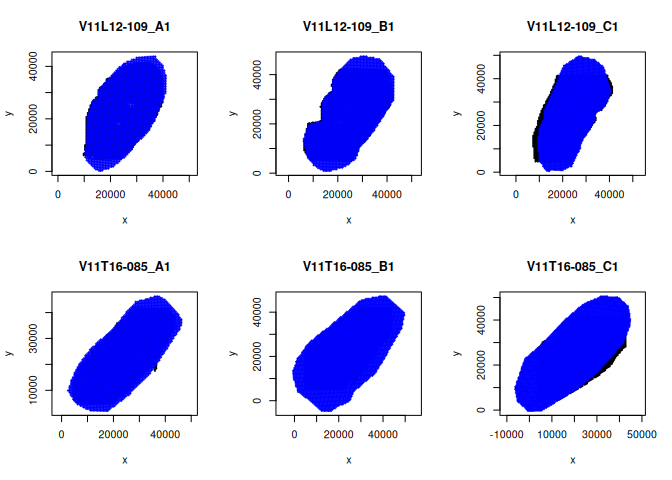
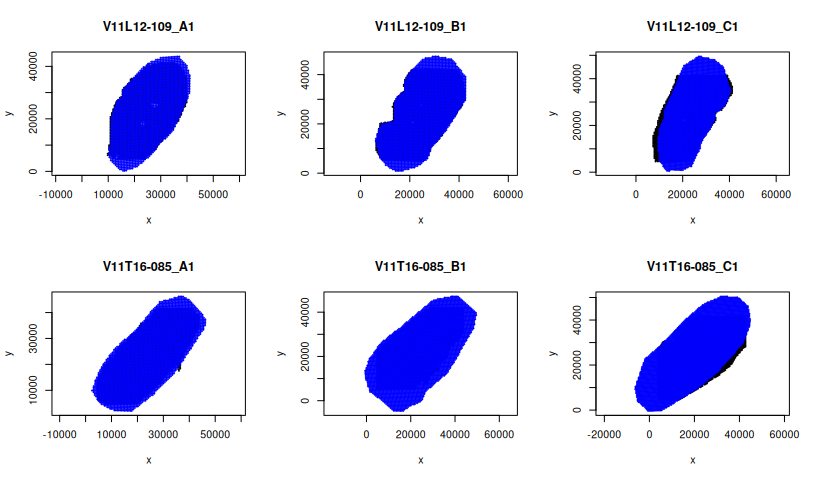
everything works, now send to wangjun

diff --git a/README.md b/README.md
@@ -13,7 +13,7 @@ The package can be installed from GitHub as follows:
 
 ``` r
 library(devtools)
-install_github("sthawinke/sbivar")
+install_github("sthawinke/sbivar", build_vignettes = TRUE)
 ```
 
 Once installed, you can load the package
@@ -39,7 +39,7 @@ is to look at the alignment of the coordinates:
 
 ``` r
 par(mfrow = c(2,3))
-plotCoordsMulti(Vicari$TranscriptCoords, Vicari$MetaboliteCoords, cex = 0.25)
+plotCoordsMulti(Vicari$TranscriptCoords, Vicari$MetaboliteCoords, cex = 0.2)
 ```
 
 ![](README_files/figure-gfm/plotvicari-1.png)<!-- -->
@@ -50,7 +50,7 @@ par(mfrow = c(1,1))
 
 ## Single-image analysis
 
-The Vicari data consist of six image which are best analysed jointly,
+The Vicari data consist of six images which are best analysed jointly,
 but for didactical purposes we also analyse a single image here, the
 sample “V11L12-109_A1”.
 
@@ -168,10 +168,9 @@ plotTopPair(multiMoranLmmsRes,
 
 ![](README_files/figure-gfm/topPairMulti-1.png)<!-- -->
 
-<!-- A more extensive description of the sbivar functionality can be found in the vignette, which can be accessed by calling -->
+A more extensive description of the sbivar functionality can be found in
+the vignette, accessed by calling
 
-<!-- ```{r openVignette, eval = FALSE} -->
-
-<!-- browseVignettes("sbivar") -->
-
-<!-- ``` -->
+``` r
+browseVignettes("sbivar")
+```
